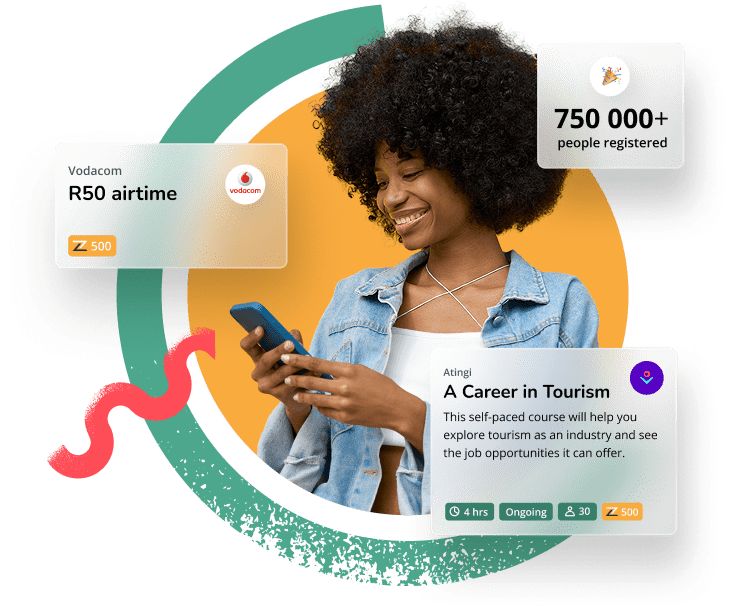
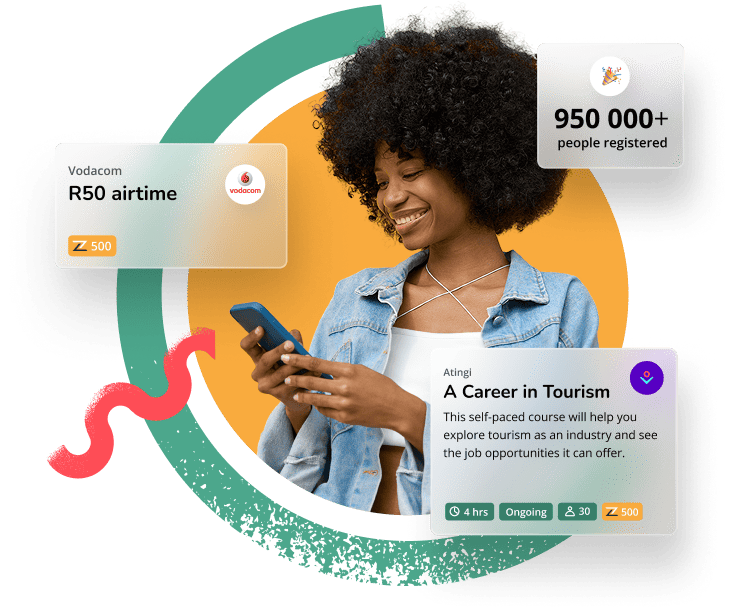
Swap platform metrics endpoints: public -> /platform/metrics/info, admin -> /platform/metrics (#1708)
* Swap platform metrics endpoints: public -> /platform/metrics/info, admin -> /platform/metrics

* home: endpoint migration and metric update

* Changed user count rounding factor to 50_000

* Updated comments

* home: main image stat update

---------

diff --git a/src/web/src/pages/index.tsx b/src/web/src/pages/index.tsx
@@ -140,7 +140,11 @@ const Home: NextPageWithLayout<{
   const newsFeed = lookup_NewsFeed ?? clientNewsFeed;
   const metrics = platformMetrics ?? clientPlatformMetrics;
   const credentialCountDisplay =
-    metrics?.credentialSummary?.[0]?.countDisplay ?? "0";
+    metrics?.credentialSummary?.find((entry) => entry.type === "Opportunity")
+      ?.countDisplay ?? "0";
+  const yoidCountDisplay =
+    metrics?.credentialSummary?.find((entry) => entry.type === "YoID")
+      ?.countDisplay ?? "0";
 
   const onSearchInputSubmit = useCallback(
     (query: string) => {
@@ -467,10 +471,10 @@ const Home: NextPageWithLayout<{
                   />
 
                   <h1 className="font-nunito text-center text-base font-semibold tracking-normal">
-                    More than {credentialCountDisplay} credentials verified
+                    More than {yoidCountDisplay} YoIDs created
                   </h1>
                   <p className="-mt-4 text-center font-sans md:text-sm">
-                    across trusted providers.
+                    and {credentialCountDisplay} credentials verified.
                   </p>
                 </div>
 

diff --git a/src/web/src/api/services/analytics.ts b/src/web/src/api/services/analytics.ts
@@ -22,7 +22,7 @@ export const getPlatformMetrics = async (
 ): Promise<PlatformMetrics> => {
   const instance = context ? ApiServer(context) : await ApiClient;
   const { data } = await instance.get<PlatformMetrics>(
-    "/analytics/platform/metrics",
+    "/analytics/platform/metrics/info",
   );
 
   return data;
@@ -33,7 +33,7 @@ export const getPlatformMetricsAdmin = async (
 ): Promise<PlatformMetricsAdmin> => {
   const instance = context ? ApiServer(context) : await ApiClient;
   const { data } = await instance.get<PlatformMetricsAdmin>(
-    "/analytics/platform/metrics/admin",
+    "/analytics/platform/metrics",
   );
 
   return data;

diff --git a/src/api/src/application/Yoma.Core.Api/Controllers/AnalyticsController.cs b/src/api/src/application/Yoma.Core.Api/Controllers/AnalyticsController.cs
@@ -31,7 +31,7 @@ namespace Yoma.Core.Api.Controllers
     #region Anonymous Actions
     [SwaggerOperation(Summary = "Get platform metrics (Anonymous)",
       Description = "Returns platform-wide metrics rounded down for public display")]
-    [HttpGet("platform/metrics")]
+    [HttpGet("platform/metrics/info")]
     [AllowAnonymous]
     public ActionResult<PlatformMetrics> GetPlatformMetrics()
     {
@@ -48,7 +48,7 @@ namespace Yoma.Core.Api.Controllers
     #region Administrative Actions
     [SwaggerOperation(Summary = "Get platform metrics",
       Description = "Returns platform metrics using actual values without rounding")]
-    [HttpGet("platform/metrics/admin")]
+    [HttpGet("platform/metrics")]
     [Authorize(Roles = $"{Constants.Role_Admin}, {Constants.Role_OrganizationAdmin}")]
     public ActionResult<PlatformMetricsAdmin> GetPlatformMetricsAdmin()
     {

diff --git a/src/api/src/domain/Yoma.Core.Domain/Analytics/Services/AnalyticsService.cs b/src/api/src/domain/Yoma.Core.Domain/Analytics/Services/AnalyticsService.cs
@@ -63,7 +63,7 @@ namespace Yoma.Core.Domain.Analytics.Services
     private const string AgeBracket_Group_Default = "Unspecified";
     private static readonly DateTime Navigated_ExternalLink_Introduction_Date = new(2024, 6, 14);
 
-    public const int RoundingFactor_PlatformMetrics_UserCount = 100_000;
+    public const int RoundingFactor_PlatformMetrics_UserCount = 50_000;
     internal const int RoundingFactor_PlatformMetrics_OrganizationCount = 10;
     internal const int RoundingFactor_PlatformMetrics_OpportunityCount = 10;
     public const int RoundingFactor_PlatformMetrics_CredentialCount = 1_000;

diff --git a/src/api/src/domain/Yoma.Core.Domain/Analytics/Models/PlatformMetrics.cs b/src/api/src/domain/Yoma.Core.Domain/Analytics/Models/PlatformMetrics.cs
@@ -52,7 +52,7 @@ namespace Yoma.Core.Domain.Analytics.Models
   {
     #region Public Members
     /// <summary>
-    /// Rounded DOWN to the nearest 100,000 and formatted with thousands separators and a "+" suffix (e.g., "900,000+")
+    /// Rounded DOWN to the nearest 50,000 and formatted with thousands separators and a "+" suffix (e.g., "950,000+")
     /// </summary>
     public string UserCountDisplay => UserCount < AnalyticsService.RoundingFactor_PlatformMetrics_UserCount ? $"{UserCount:N0}" : $"{UserCount:N0}+";
 
